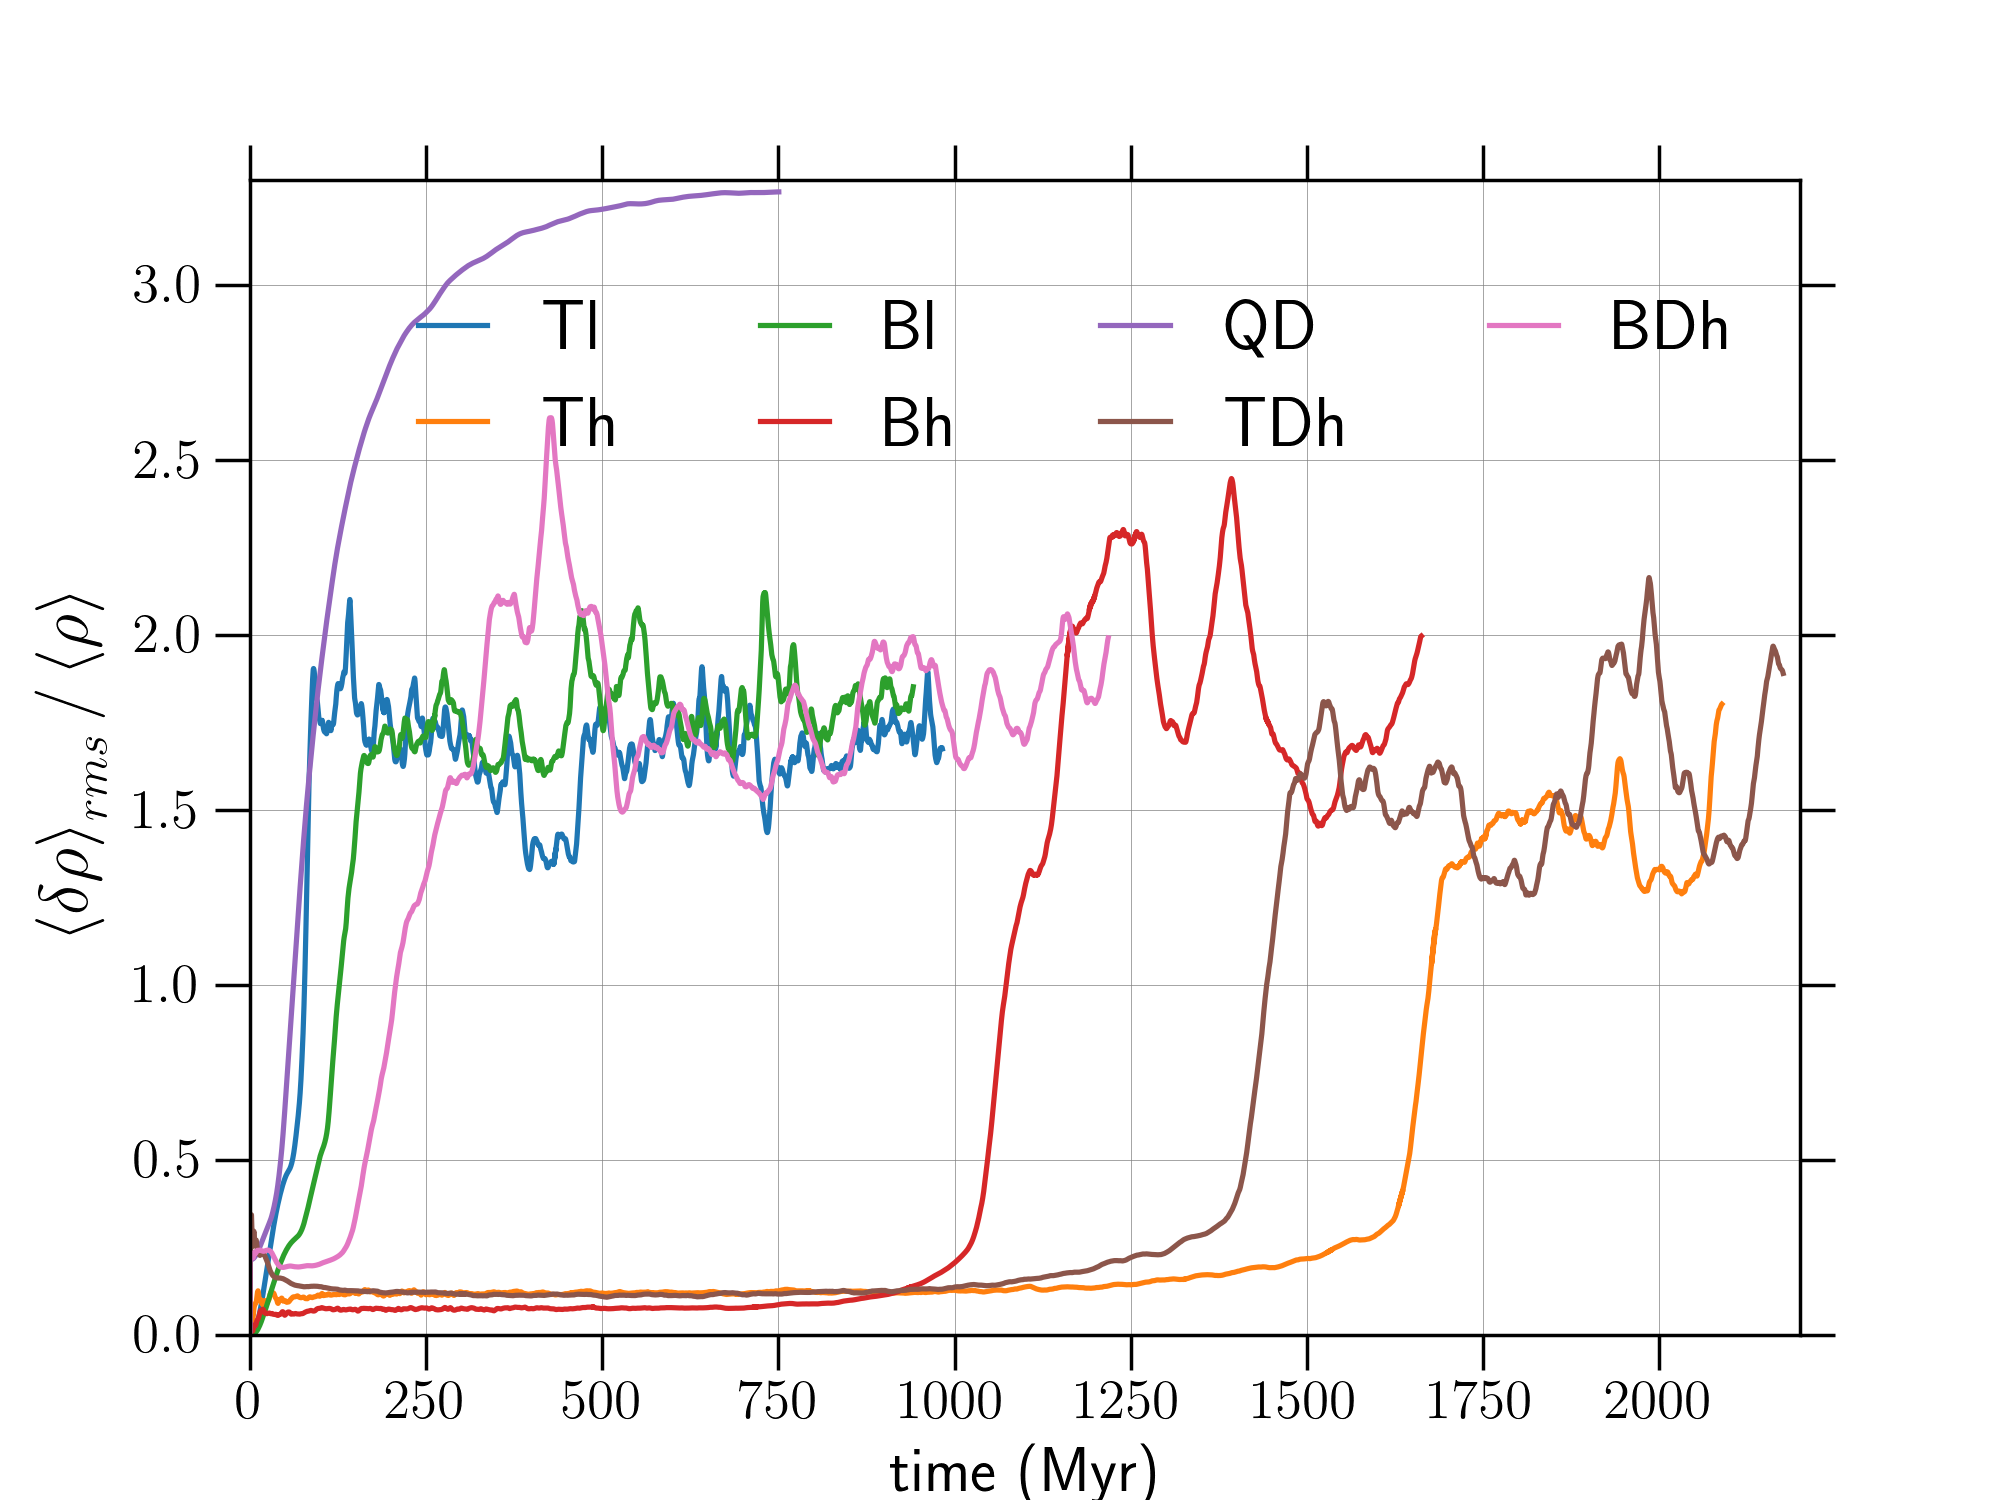
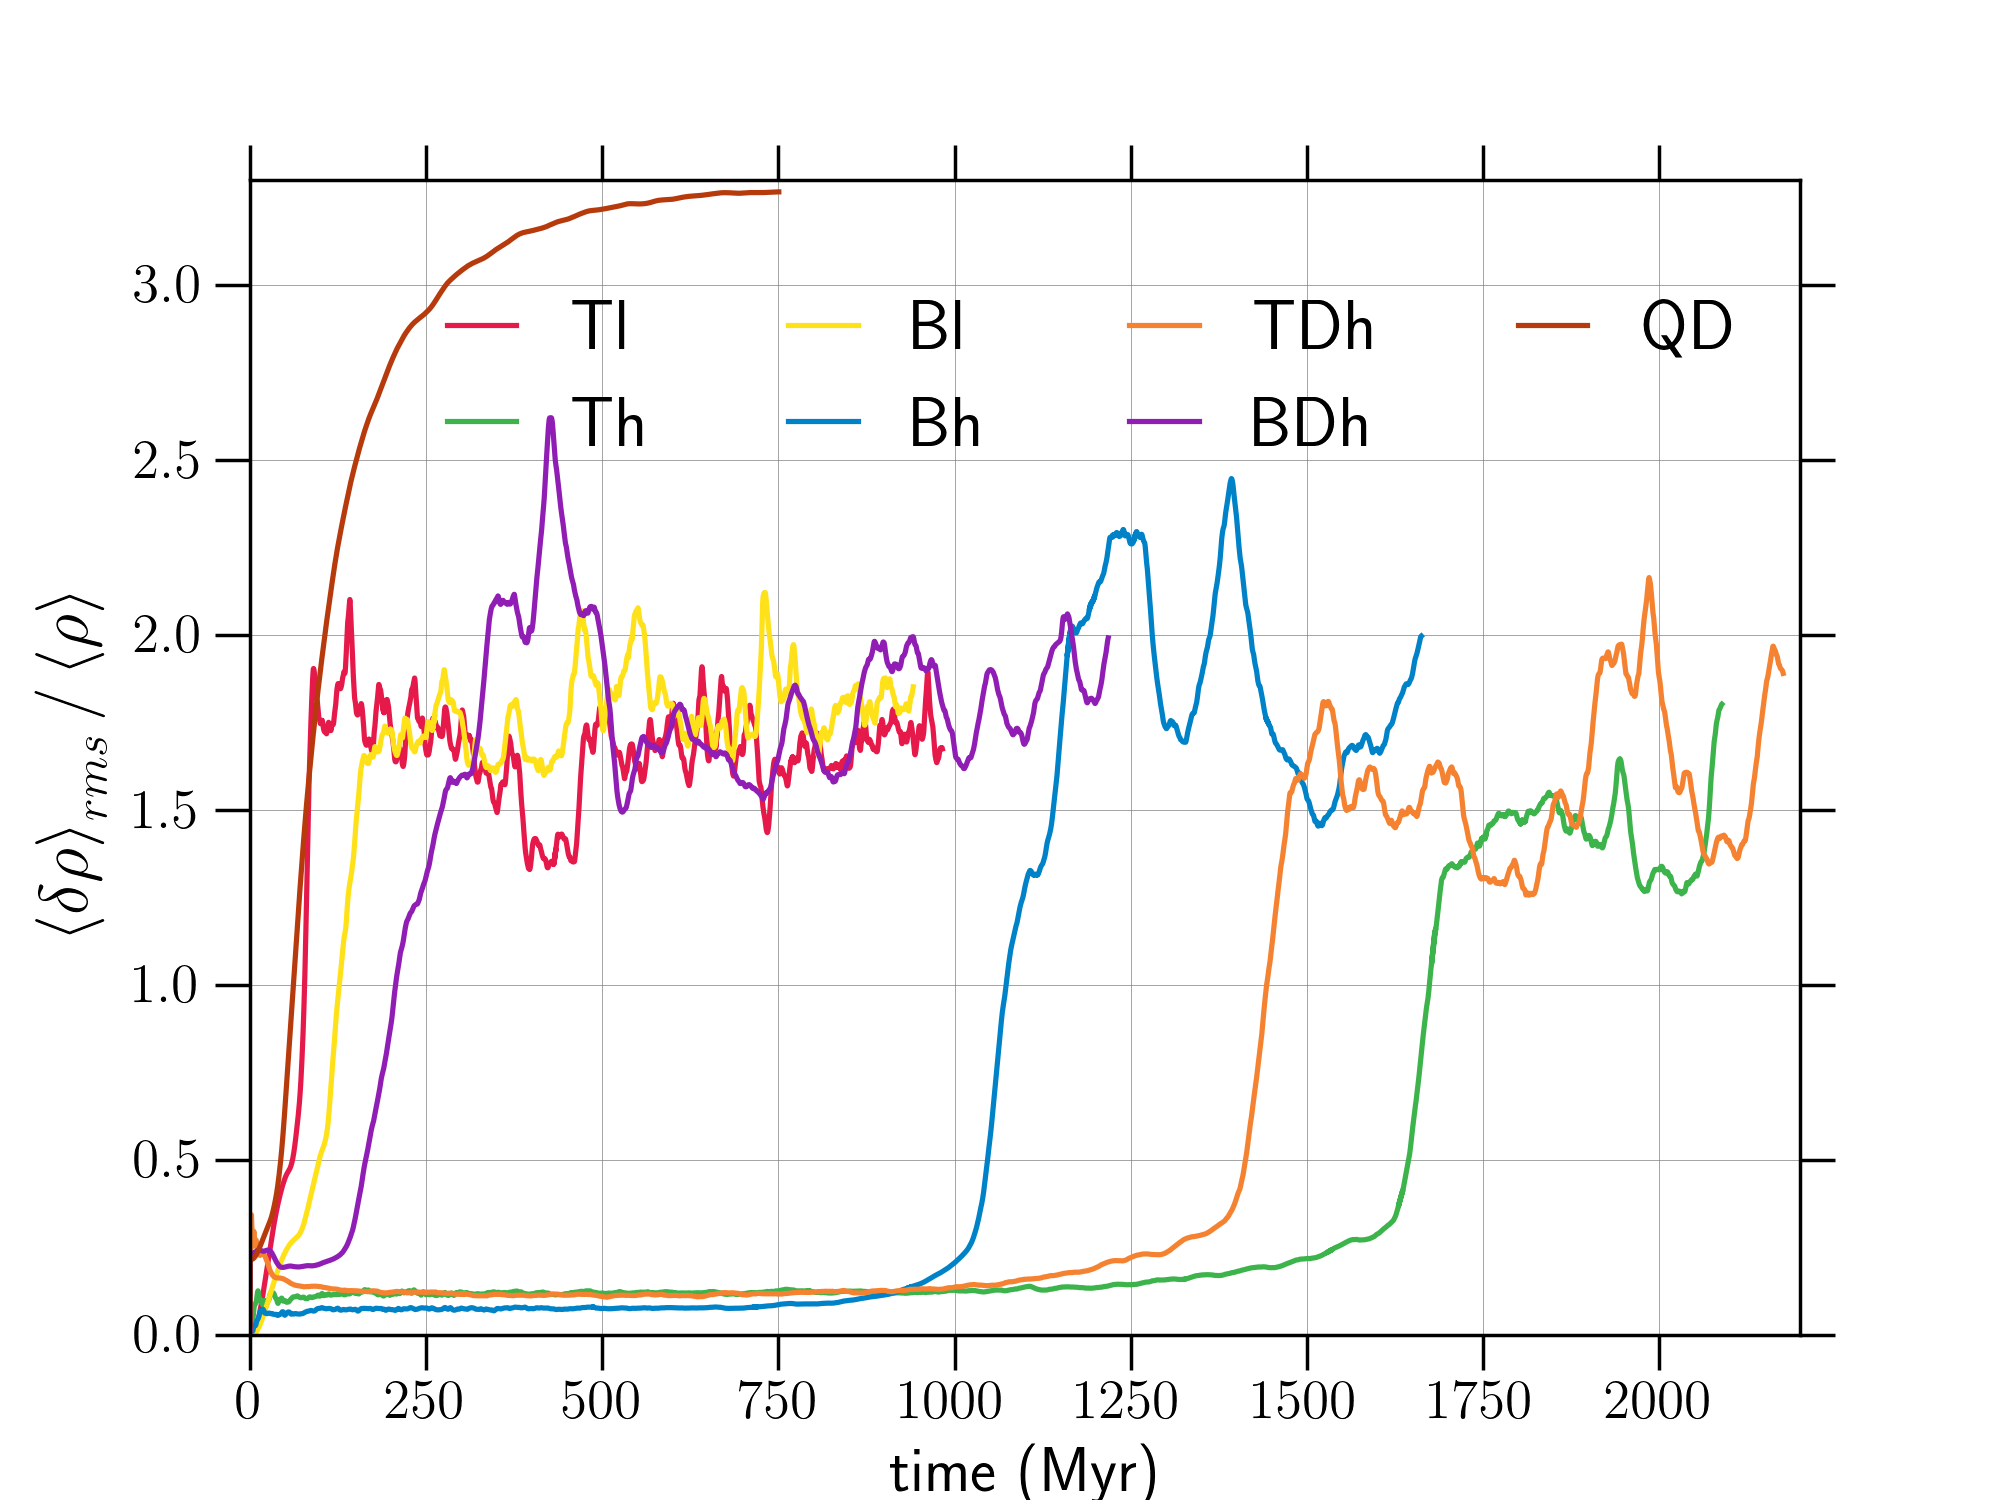
Edited various plots

diff --git a/rho-mach/density_mach_all.py b/rho-mach/density_mach_all.py
@@ -16,13 +16,13 @@ plot.rcParams.update(params)
 
 plt.rc('text', usetex=True)
 
-wdir=('tabulated_cooling/256/k0-2/', 'tabulated_cooling/256/k12/', 'thermal_heating/256/tabulated_cooling/F5e-1/k0-2/', 'thermal_heating/256/tabulated_cooling/F5e-1/k12/', 'no_turb/2e-1/', 'turb_perturb/DkHC2e-1/', 'turb_perturb/DBh2e-1/F5e-1/')
-labels=('Tl', 'Th', 'Bl', 'Bh', 'QD', 'TDh', 'BDh')
+wdir=('tabulated_cooling/256/k0-2/', 'tabulated_cooling/256/k12/', 'thermal_heating/256/tabulated_cooling/F5e-1/k0-2/', 'thermal_heating/256/tabulated_cooling/F5e-1/k12/', 'turb_perturb/DkHC2e-1/', 'turb_perturb/DBh2e-1/F5e-1/')
+labels=('Tl', 'Th', 'Bl', 'Bh', 'TDh', 'BDh')
 
 step_size=0.2
-end=np.array((24.8, 53.2, 24., 42.4, 19., 55.4, 31.))
+end=np.array((24.8, 53.2, 24., 42.4, 55.4, 31.))
 start=np.ones(end.size)*step_size
-start_time=np.array((10., 51., 10., 31., 6., 40., 10.))
+start_time=np.array((10., 51., 10., 31., 40., 10.))
 #Load data files
 perturb = [None] * (start.size)
 #t_start sets time at which statistical equilibrium has been reached
@@ -44,13 +44,13 @@ ax.set_ylabel(r'$\delta R$', fontsize=20)
 x1=np.arange(0.3,0.8,0.002)
 y=np.arange(0.8,1.6,0.002)
 
-fit[0],= ax.plot(x1,0.6*x1**2,label=r'$\mathcal{M}_{rms}^2$', color=colors[9], linewidth=2.)
-fit[1],= ax.plot(y,0.48*y**1,label=r'$\mathcal{M}_{rms}$', color=colors[6], linewidth=2.)
+fit[0],= ax.plot(x1,0.5*x1**2,label=r'$\mathcal{M}_{rms}^2$', color=colors[9], linewidth=2.)
+fit[1],= ax.plot(y,0.4*y**1,label=r'$\mathcal{M}_{rms}$', color=colors[6], linewidth=2.)
 
 ax.set_yscale('log')
 ax.set_xscale('log')
 #ax.set_title(r'$\frac{\left<\delta\rho\right>_{rms}}{\left<\rho\right>}$ and $\frac{\left<\delta P\right>_{rms}}{\left< P\right>}$  vs $\left< \mathcal{M}\right>_{rms}$')
-ax.set_xlim(4e-2,2.)
+ax.set_xlim(4e-1,2.)
 ax.set_ylim(0.03,1.)
 
 
@@ -69,13 +69,14 @@ for i1 in xrange(0, start.size):
 	data = np.loadtxt(file, skiprows=1)
         #Load data
         #Plot the data
-        perturb1[i1], =ax.plot(data[:,1][:int(start_time[i1]/step_size)],data[:,0][:int(start_time[i1]/step_size)], label=labels[i1], color=colors[i1], marker=".", markeredgecolor='none', markersize=0.1, linewidth=1.)
-        perturb2[i1], =ax.plot(data[:,1][int(start_time[i1]/step_size):],data[:,0][int(start_time[i1]/step_size):], label=labels[i1], color=colors[i1], marker=".", markeredgecolor='none', markersize=0.2, linewidth=2.5)
+        perturb1[i1],=ax.plot(data[:,1][:int(start_time[i1]/step_size)],data[:,0][:int(start_time[i1]/step_size)], label=labels[i1], color=colors[i1], marker=".", markersize=4., linewidth=1.)
+        perturb2[i1], =ax.plot(data[:,1][int(start_time[i1]/step_size):],data[:,0][int(start_time[i1]/step_size):], label=labels[i1], color=colors[i1], marker=".", markersize=6., linewidth=1.)
 
 
-perturb2_leg=ax.legend(handles=perturb2, loc='lower left', bbox_to_anchor=(0., 0.), ncol=2, fontsize=25)
+perturb2_leg=ax.legend(handles=perturb2, loc='lower right', bbox_to_anchor=(1.0, 0.), ncol=2, fontsize=25)
 ax.add_artist(perturb2_leg)
-perturb2_leg.get_frame().set_alpha(0.)
+perturb2_leg.get_frame().set_alpha(0.5)
 
 plt.savefig('rho-mach-all.png',dpi=250)
 
+** (eog:7947): WARNING **: Couldn't connect to accessibility bus: Failed to connect to socket /tmp/dbus-SG0aNh6zUv: Connection refused

diff --git a/surface_brightness/sb_mach_all.py b/surface_brightness/sb_mach_all.py
@@ -16,13 +16,13 @@ plot.rcParams.update(params)
 
 plt.rc('text', usetex=True)
 
-wdir=('tabulated_cooling/256/k0-2/', 'tabulated_cooling/256/k12/', 'thermal_heating/256/tabulated_cooling/F5e-1/k0-2/', 'thermal_heating/256/tabulated_cooling/F5e-1/k12/', 'no_turb/2e-1/', 'turb_perturb/DkHC2e-1/', 'turb_perturb/DBh2e-1/F5e-1/')
-labels=('Tl', 'Th', 'Bl', 'Bh', 'QD', 'TDh', 'BDh')
+wdir=('tabulated_cooling/256/k0-2/', 'tabulated_cooling/256/k12/', 'thermal_heating/256/tabulated_cooling/F5e-1/k0-2/', 'thermal_heating/256/tabulated_cooling/F5e-1/k12/', 'turb_perturb/DkHC2e-1/', 'turb_perturb/DBh2e-1/F5e-1/')
+labels=('Tl', 'Th', 'Bl', 'Bh', 'TDh', 'BDh')
 
 step_size=0.2
-end=np.array((24.8, 53.2, 24., 42.4, 19., 55.4, 31.))
+end=np.array((24.8, 53.2, 24., 42.4, 55.4, 31.))
 start=np.ones(end.size)*step_size
-start_time=np.array((10., 51., 10., 31., 6., 40., 10.))
+start_time=np.array((10., 51., 10., 31., 40., 10.))
 #Load data files
 perturb = [None] * (start.size)
 #t_start sets time at which statistical equilibrium has been reached
@@ -50,8 +50,8 @@ fit[1],= ax.plot(y,0.48*y**1,label=r'$\mathcal{M}_{rms}$', color=colors[6], line
 ax.set_yscale('log')
 ax.set_xscale('log')
 #ax.set_title(r'$\frac{\left<\delta\rho\right>_{rms}}{\left<\rho\right>}$ and $\frac{\left<\delta P\right>_{rms}}{\left< P\right>}$  vs $\left< \mathcal{M}\right>_{rms}$')
-ax.set_xlim(4e-2,3.)
-ax.set_ylim(0.03,3.)
+ax.set_xlim(4e-1,3.)
+ax.set_ylim(0.03,2.5)
 
 
 fit_leg=ax.legend(handles=fit, loc='upper left', bbox_to_anchor=(0.0, 1.0), ncol=2, fontsize=25)
@@ -77,11 +77,11 @@ for i1 in xrange(0, start.size):
         #Load data
         #Plot the data
 	#print del_R.shape
-        perturb1[i1], =ax.plot(data[:,1][5:int(start_time[i1]/step_size)], del_R[5:int(start_time[i1]/step_size)], label=labels[i1], color=colors[i1], marker=".", markeredgecolor='none', markersize=0.1, linewidth=1.)
-        perturb2[i1], =ax.plot(data[:,1][int(start_time[i1]/step_size):del_R.size], del_R[int(start_time[i1]/step_size):], label=labels[i1], color=colors[i1], marker=".", markeredgecolor='none', markersize=0.2, linewidth=2.5)
+        perturb1[i1], =ax.plot(data[:,1][5:int(start_time[i1]/step_size)], del_R[5:int(start_time[i1]/step_size)], label=labels[i1], color=colors[i1], marker=".", markeredgecolor='none', markersize=4., linewidth=1.)
+        perturb2[i1], =ax.plot(data[:,1][int(start_time[i1]/step_size):del_R.size], del_R[int(start_time[i1]/step_size):], label=labels[i1], color=colors[i1], marker=".", markeredgecolor='none', markersize=6., linewidth=1.)
 
 
-perturb2_leg=ax.legend(handles=perturb2, loc='lower left', bbox_to_anchor=(0., 0.), ncol=2, fontsize=25)
+perturb2_leg=ax.legend(handles=perturb2, loc='lower right', bbox_to_anchor=(1., 0.), ncol=2, fontsize=25)
 ax.add_artist(perturb2_leg)
 perturb2_leg.get_frame().set_alpha(0.)
 

diff --git a/del-rho-plots/density_perturb.py b/del-rho-plots/density_perturb.py
@@ -26,9 +26,12 @@ UNIT_TIME=UNIT_LENGTH/UNIT_VELOCITY/(3.15e13)
 
 no_files=7
 #Load data files
-wdir=('tabulated_cooling/256/k0-2/', 'tabulated_cooling/256/k12/', 'thermal_heating/256/tabulated_cooling/F5e-1/k0-2/', 'thermal_heating/256/tabulated_cooling/F5e-1/k12/', 'no_turb/2e-1/', 'turb_perturb/DkHC2e-1/', 'turb_perturb/DBh2e-1/F5e-1/')
+wdir=('tabulated_cooling/256/k0-2/', 'tabulated_cooling/256/k12/', 'thermal_heating/256/tabulated_cooling/F5e-1/k0-2/', 'thermal_heating/256/tabulated_cooling/F5e-1/k12/', 'turb_perturb/DkHC2e-1/', 'turb_perturb/DBh2e-1/F5e-1/', 'no_turb/2e-1/')
 
-labels=('Tl', 'Th', 'Bl', 'Bh', 'QD', 'TDh', 'BDh')
+labels=('Tl', 'Th', 'Bl', 'Bh', 'TDh', 'BDh', 'QD')
+
+colors=((230, 25, 75) , (60, 180, 75), (255, 225, 25), (0, 130, 200), (245, 130, 48), (145, 30, 180), (183, 58, 12), (240, 50, 230), (250, 190, 190), (6, 71, 24))
+colors=np.array(colors)/255.
 
 fig, ax = plt.subplots()
 fig.set_size_inches(7, 7)
@@ -36,7 +39,7 @@ for i1 in xrange(0,no_files):
 	filedir='/mnt/lustre/ug4/ugrajs/cooling/'+wdir[i1]
 	file=filedir+'pluto_hst.out'
 	data = np.loadtxt(file, skiprows=1, usecols=(0,13))
-	ax.plot(data[:,0]*UNIT_TIME,data[:,1],label=labels[i1])
+	ax.plot(data[:,0]*UNIT_TIME,data[:,1],label=labels[i1], color=colors[i1])
 fig.set_size_inches(8, 6)
 ax.set_xlabel(r'time (Myr)', fontsize=18)
 ax.set_ylabel(r'$\left<\delta\rho\right>_{rms}/\left<\rho\right>$', fontsize=20)
